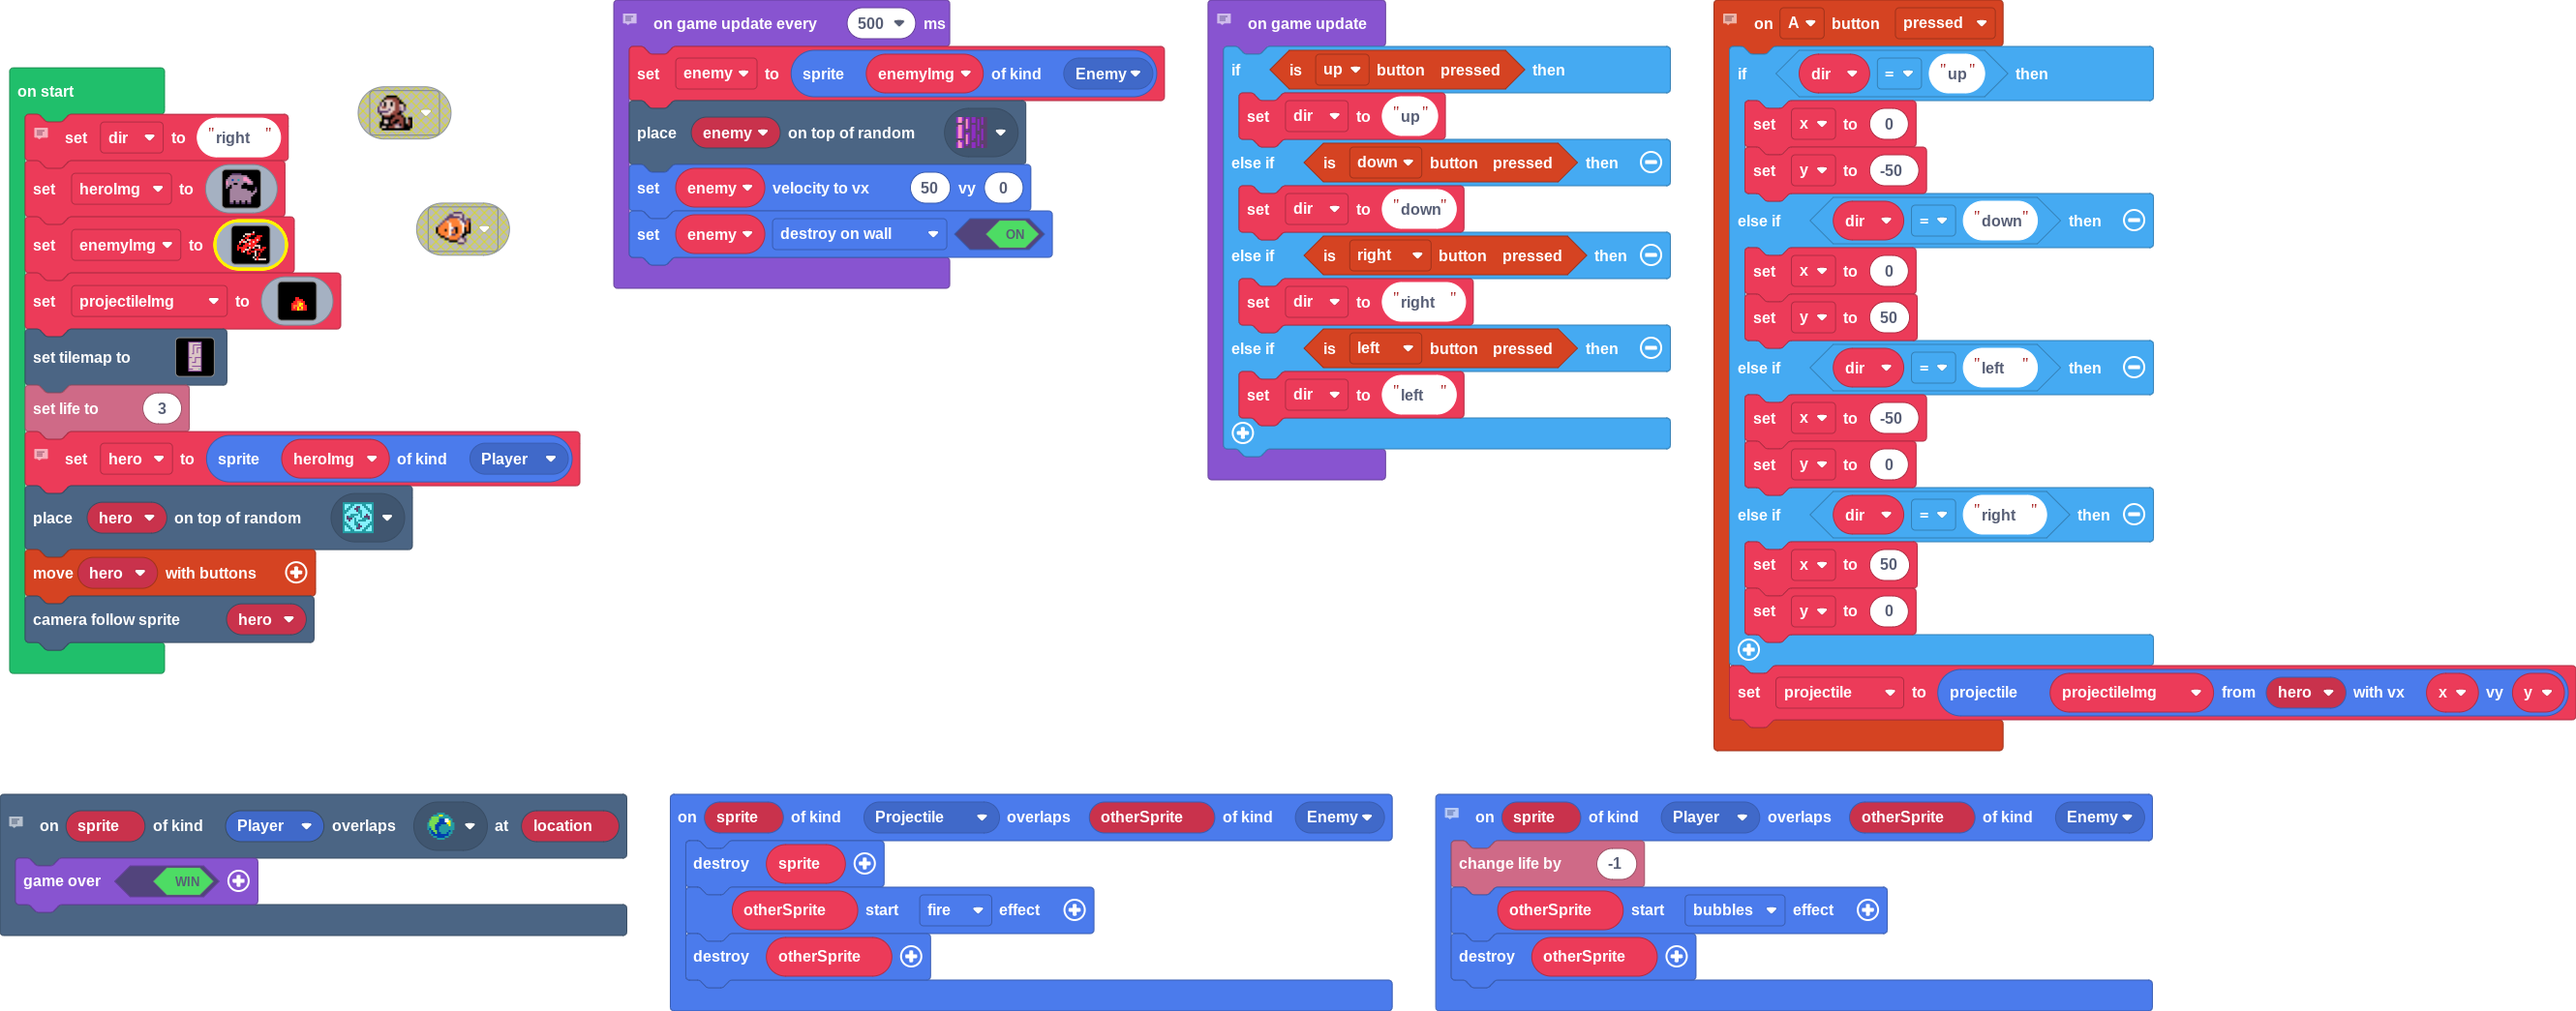
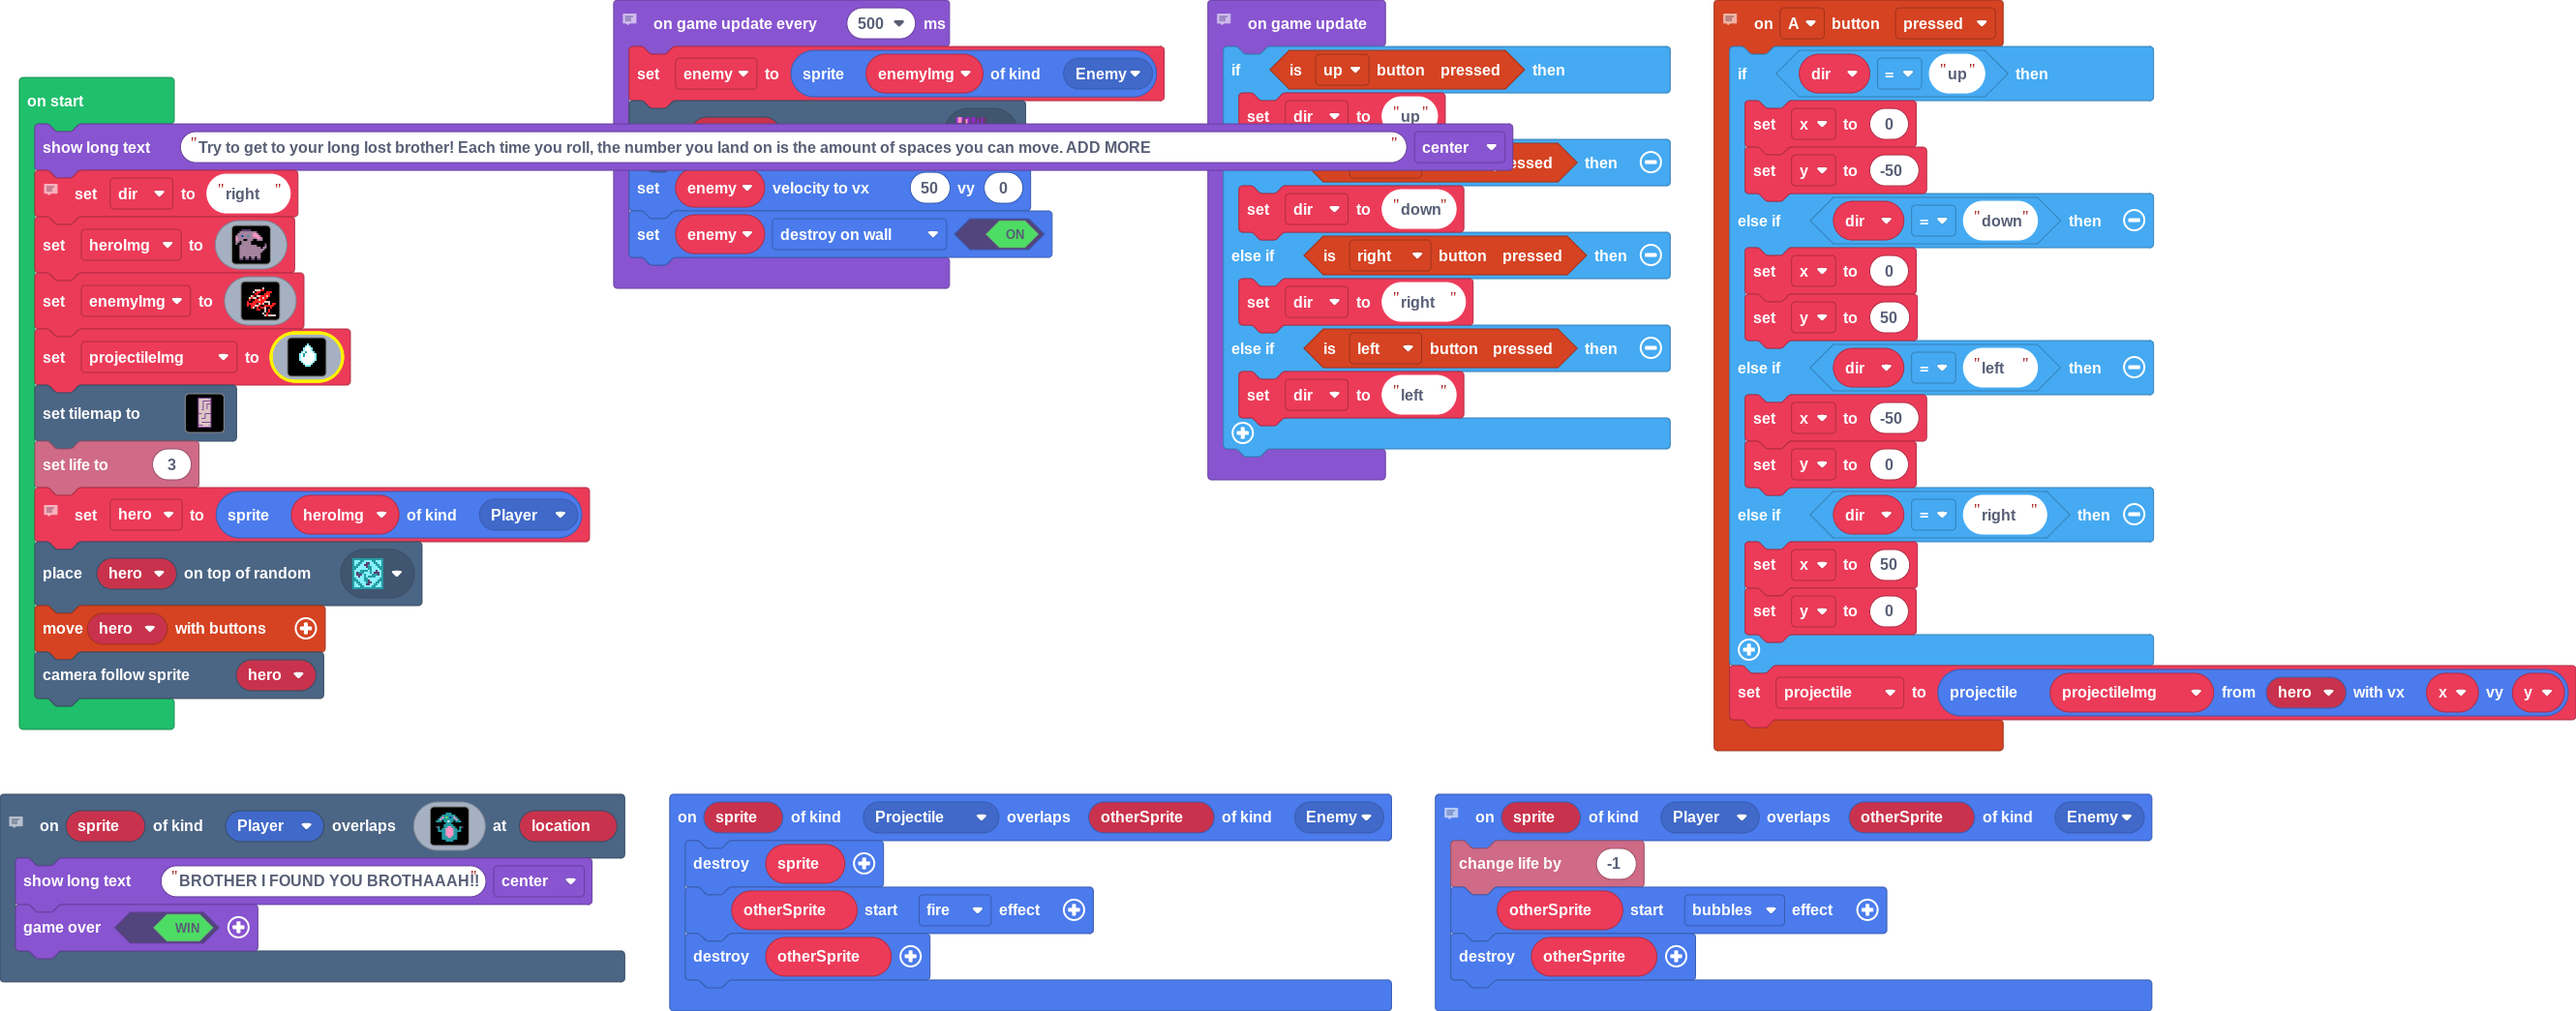
Update main.blocks, main.ts

diff --git a/main.ts b/main.ts
@@ -1,3 +1,25 @@
+// When hero wins game
+scene.onOverlapTile(SpriteKind.Player, img`
+    . . . . . . . . . . . . . . . . 
+    . . . . . . 6 6 6 . . . . . . . 
+    . . . . 6 6 6 6 6 6 6 . . . . . 
+    . . . 6 3 6 7 6 8 6 3 6 . . . . 
+    . . 6 3 6 6 6 6 6 6 6 3 6 . . . 
+    . 6 6 6 . 6 6 1 6 6 . 6 6 6 . . 
+    . . . . . . 6 6 6 . . . . . . . 
+    . . . . . 6 6 6 6 6 . . . . . . 
+    . c 6 . . 6 6 3 3 6 6 . . 6 c . 
+    . . 6 . 6 6 3 3 3 3 6 6 . 6 . . 
+    . . 6 6 6 6 3 3 3 3 6 6 6 6 . . 
+    . . . . 6 6 3 3 3 3 6 6 . . . . 
+    . . . . 6 6 3 3 3 3 6 6 . . . . 
+    . . . . 6 6 6 3 3 6 6 6 . . . . 
+    . . . . 6 6 6 6 6 6 6 6 . . . . 
+    . . . . . . 6 6 6 6 . . . . . . 
+    `, function (sprite, location) {
+    game.showLongText("BROTHER I FOUND YOU BROTHAAAH!!", DialogLayout.Center)
+    game.over(true)
+})
 // shoot projectiles
 controller.A.onEvent(ControllerButtonEvent.Pressed, function () {
     if (dir == "up") {
@@ -14,10 +36,6 @@ controller.A.onEvent(ControllerButtonEvent.Pressed, function () {
         y = 0
     }
     projectile = sprites.createProjectileFromSprite(projectileImg, hero, x, y)
-})
-// When hero wins game
-scene.onOverlapTile(SpriteKind.Player, sprites.dungeon.collectibleBlueCrystal, function (sprite, location) {
-    game.over(true)
 })
 sprites.onOverlap(SpriteKind.Projectile, SpriteKind.Enemy, function (sprite, otherSprite) {
     sprite.destroy()
@@ -37,6 +55,7 @@ let x = 0
 let hero: Sprite = null
 let projectileImg: Image = null
 let dir = ""
+game.showLongText("Try to get to your long lost brother! Each time you roll, the number you land on is the amount of spaces you can move. ADD MORE ", DialogLayout.Center)
 // Initialize
 dir = "right"
 let heroImg = img`
@@ -77,18 +96,18 @@ let enemyImg = img`
     `
 projectileImg = img`
     . . . . . . . . . . . . . . . . 
-    . . . . . . . . . . . . . . . . 
-    . . . . . . . . . . . . . . . . 
-    . . . . . . . . . . . . . . . . 
-    . . . . . . . . . . . . . . . . 
-    . . . . . . . . . . . . . . . . 
-    . . . . . . . 2 2 . . . . . . . 
-    . . . . . . . 2 2 2 2 . . . . . 
-    . . . . . . 2 2 4 4 2 2 . . . . 
-    . . . . . 2 2 2 4 5 5 2 . . . . 
-    . . . . . 2 4 4 4 5 4 2 2 . . . 
-    . . . . . 2 4 2 5 2 5 2 2 . . . 
-    . . . . . 2 2 2 5 4 4 2 2 . . . 
+    . . . . . . . . 9 . . . . . . . 
+    . . . . . . . 9 1 9 . . . . . . 
+    . . . . . . 9 1 1 1 9 . . . . . 
+    . . . . . . 9 1 1 1 9 . . . . . 
+    . . . . . 9 1 6 1 1 1 9 . . . . 
+    . . . . 9 1 6 1 1 1 1 1 9 . . . 
+    . . . . 9 1 6 1 1 1 1 1 9 . . . 
+    . . . . 9 1 1 1 1 1 1 1 9 . . . 
+    . . . . 9 1 1 1 1 1 1 1 9 . . . 
+    . . . . . 9 1 1 1 1 1 9 . . . . 
+    . . . . . . 9 1 1 1 9 . . . . . 
+    . . . . . . . 9 9 9 . . . . . . 
     . . . . . . . . . . . . . . . . 
     . . . . . . . . . . . . . . . . 
     . . . . . . . . . . . . . . . . 
